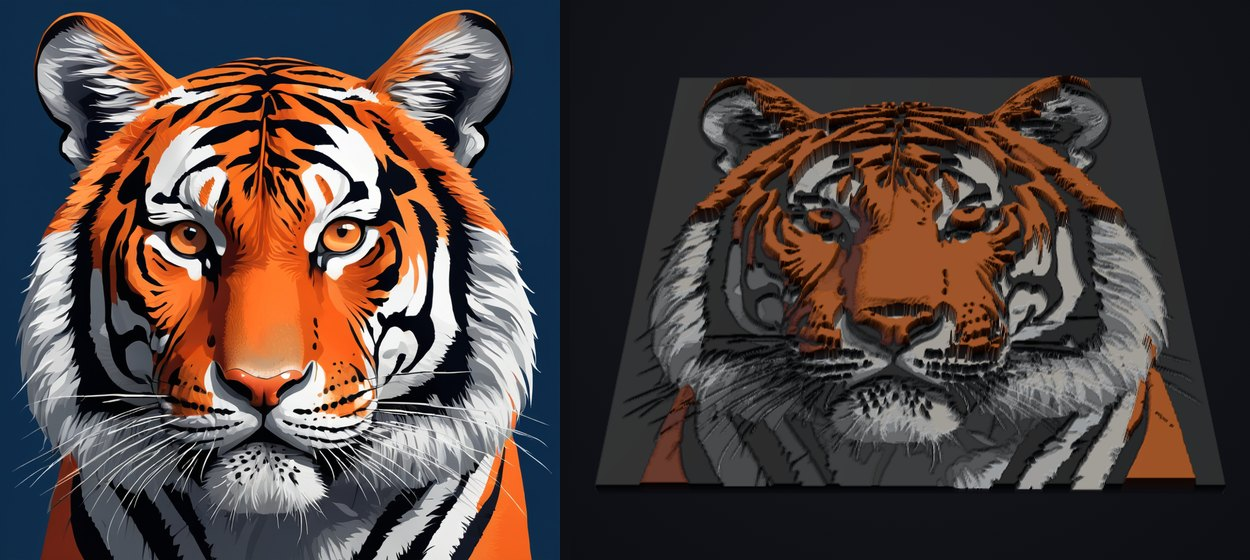
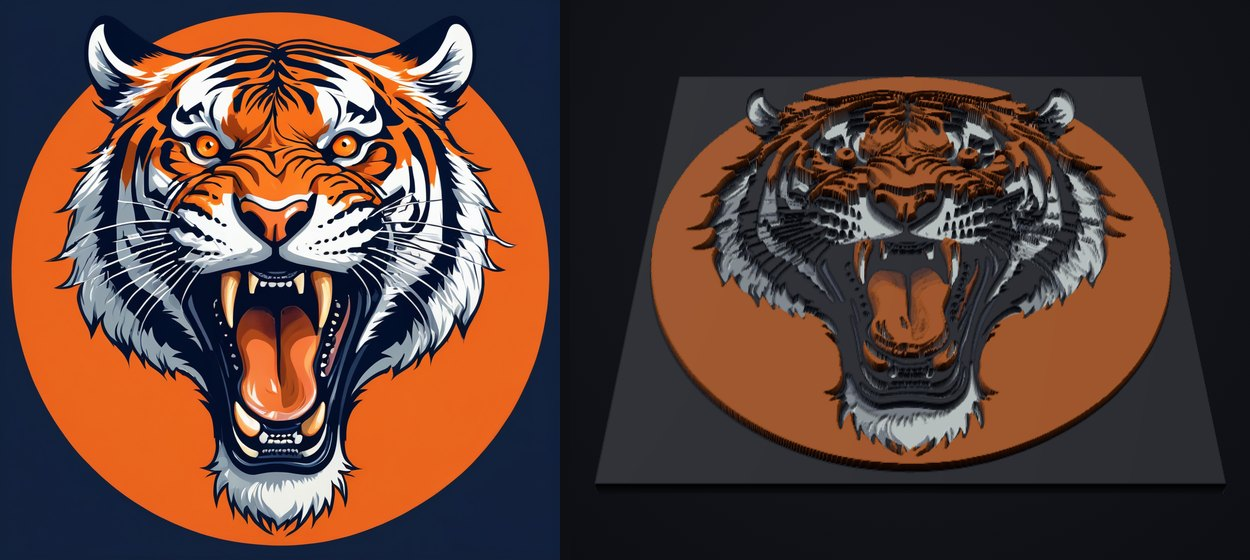
0.20.1: roaring tiger example
Claude-Session: https://claude.ai/code/session_01QRKSex3WPt8vfM1LDpu2iF

diff --git a/CHANGELOG.md b/CHANGELOG.md
@@ -2,6 +2,10 @@
 
 Versionen nach [SemVer](https://semver.org/lang/de/): MAJOR.MINOR.PATCH.
 
+## 0.20.1 – 2026-11-26
+
+- The tiger example is now a roaring tiger (also in the README showcase).
+
 ## 0.20.0 – 2026-11-26
 
 - **Sphere ornament redesigned for printing.** With "Screw cap on top" the sphere now has an internal thread at
